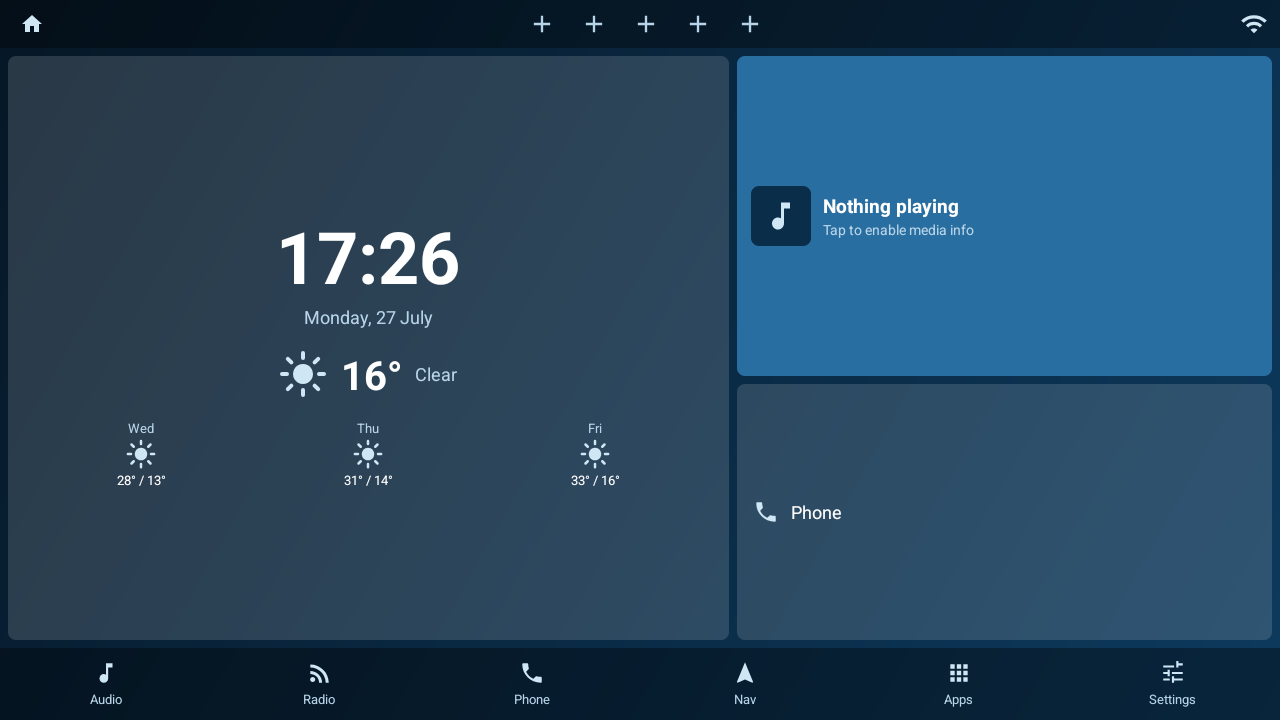
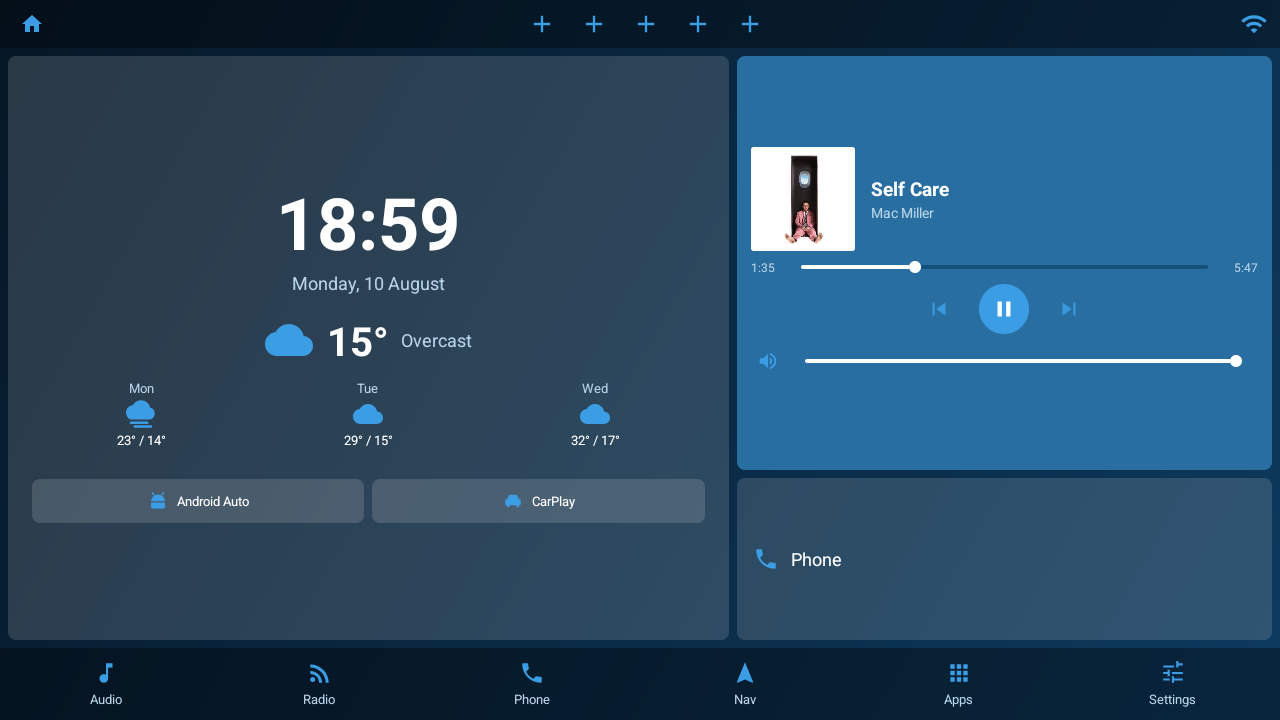
Refresh screenshots, README and site
Replaces the old screenshots with current ones and rewrites the README
around how the launcher actually works: the two configurable cards, the
widget hosting, the live layout editor and the portrait drawer. Fixes the
stale notes on fullscreen handling and the project layout, and drops the
roadmap items that are already in.

The site gets the same treatment — new shots throughout, sections for the
editor and for widgets in place of the old drawer shot.

diff --git a/docs/index.html b/docs/index.html
@@ -42,7 +42,7 @@
 
 <section>
   <div class="wrap">
-    <img class="shot" src="screenshots/dashboard.png" alt="Dashline home screen showing a large clock, current weather with a three-day forecast, a media panel and a phone shortcut">
+    <img class="shot" src="screenshots/dashboard.png" alt="Dashline home screen showing a large clock, current weather with a three-day forecast, a media panel with album art and playback controls, and a phone shortcut">
     <p class="cap">The whole launcher is one glanceable screen.</p>
   </div>
 </section>
@@ -52,7 +52,8 @@
     <h2>Built for the units, not for phones</h2>
     <p class="lede">
       Most head-unit launchers are phone launchers stretched sideways. Dashline is
-      landscape-first, readable at a glance, and light enough for a slow SoC.
+      landscape-first, readable at a glance, and light enough for a slow SoC —
+      with a layout of its own for upright screens.
     </p>
 
     <div class="grid">
@@ -67,6 +68,10 @@
       <div class="card">
         <h3>Your apps, your tabs</h3>
         <p>Audio, Radio, Phone, Nav, Apps and Settings, each mapped to an app you choose.</p>
+      </div>
+      <div class="card">
+        <h3>Cards you fill</h3>
+        <p>Each of the two panels holds the player, a phone shortcut, your app shortcuts, or real Android widgets.</p>
       </div>
       <div class="card">
         <h3>Drawer that stays tidy</h3>
@@ -87,15 +92,39 @@
 <section>
   <div class="wrap">
     <h2>Make it yours</h2>
-    <p class="lede">Pick a colour scheme, choose your default apps, and set it once.</p>
+    <p class="lede">
+      The Customize screen is the real dashboard, not a mock-up. Drag the bar
+      between the cards to resize them, swap their order, and pick what each one
+      holds.
+    </p>
+    <img class="shot" src="screenshots/customize.png" alt="The Customize home screen editor, showing the live dashboard above buttons to swap the cards, set the media card, set the second card and reset">
+    <p class="cap">What you drag is what you get.</p>
+  </div>
+</section>
+
+<section>
+  <div class="wrap">
+    <h2>Real widgets, on your dashboard</h2>
+    <p class="lede">
+      Either card can host up to three standard Android home-screen widgets —
+      calendar, battery, music, whatever you already use — or a row of app
+      shortcuts instead.
+    </p>
+    <img class="shot" src="screenshots/cards.png" alt="Dashline home screen with a calendar widget filling one card and four app shortcuts in the other">
+  </div>
+</section>
+
+<section>
+  <div class="wrap">
+    <h2>Set it up once</h2>
     <div class="shot-grid">
       <div>
-        <img class="shot" src="screenshots/gradients.png" alt="Colour theme picker showing Midnight, Ocean, Sunset, Forest, Violet, Crimson and Graphite schemes">
+        <img class="shot" src="screenshots/themes.png" alt="Colour theme picker showing Midnight, Ocean, Sunset, Forest, Violet, Crimson and Graphite schemes">
         <p class="cap">Seven schemes, applied across the whole UI.</p>
       </div>
       <div>
-        <img class="shot" src="screenshots/settings.png" alt="Settings screen with sections for general options, default apps and permissions">
-        <p class="cap">Everything configurable, nothing buried.</p>
+        <img class="shot" src="screenshots/tabs.png" alt="Bottom tab editor listing Audio, Radio, Phone, Nav, Apps and Settings with controls to reorder and hide them">
+        <p class="cap">Reorder the bottom bar, hide what your unit doesn't need.</p>
       </div>
     </div>
   </div>
@@ -103,11 +132,12 @@
 
 <section>
   <div class="wrap">
-    <h2>Every app, one search away</h2>
+    <h2>Light or dark, however you like it</h2>
     <p class="lede">
-      The drawer learns what you actually open and puts it first.
+      Dark by default, light when you want it, or automatic by time of day. The
+      clock can be digital, analog or minimal, with a stopwatch if you use one.
     </p>
-    <img class="shot" src="screenshots/drawer.png" alt="App drawer with a search field, a frequently used row and a grid of installed apps">
+    <img class="shot" src="screenshots/dashboard-light.png" alt="Dashline in a light green theme with the analog clock face, a stopwatch, weather forecast and the media panel">
   </div>
 </section>
 

diff --git a/README.md b/README.md
@@ -16,30 +16,65 @@
 </p>
 
 <p align="center">
-  Kotlin, classic Views, landscape-first, <b>no Google Play Services required</b>,<br>
+  Kotlin, classic Views, landscape-first with a portrait layout for upright<br>
+  screens, <b>no Google Play Services required</b>,<br>
   and it runs all the way back to <b>Android 4.4 (KitKat)</b> so it works on old units too.
 </p>
 
 ---
 
-## Screenshots
+## How it works
 
-### Dashboard
-
-Clock, date, current conditions and a three-day forecast on the left; media and
-phone on the right; quick-launch favourites along the top.
+The whole launcher is one screen. A status bar across the top, two panels below
+it, and a tab bar along the bottom.
 
 ![Home dashboard](docs/screenshots/dashboard.png)
 
-### App drawer
+**The top bar** holds a Home button, five quick-launch favourites, and a Wi-Fi
+indicator that only appears when the unit is connected. Tap an empty favourite
+slot to assign an app, long-press one to change or clear it.
 
-Search, a frequently-used strip, and the full app grid.
+**The left panel** is the clock and weather: a large clock and date, current
+conditions, and a three-day forecast. The clock face can be digital, analog or
+minimal, and an optional stopwatch sits under it.
 
-![App drawer](docs/screenshots/drawer.png)
+![Light theme with the analog face and stopwatch](docs/screenshots/dashboard-light.png)
 
-| Settings | Colour themes |
+**The right column is two cards, and both are yours to fill.** Either one can be:
+
+- the **media player** — album art, title and artist read from whatever app is
+  actually playing, with play/pause, skip, a scrubbable seek bar and volume;
+- the **phone shortcut**;
+- a row of **app shortcuts** you choose;
+- up to three **Android home-screen widgets**, hosted for real — the same
+  widgets you'd put on a phone's home screen.
+
+![A calendar widget in one card, app shortcuts in the other](docs/screenshots/cards.png)
+
+**The bottom tabs** are Audio, Radio, Phone, Nav, Apps and Settings, each mapped
+to an app you pick. They can be reordered, and any of them except Apps and
+Settings can be hidden — those two stay because they're the only way back into
+the launcher's own screens.
+
+### Laying it out
+
+**Settings → Customize home screen** is a live editor: it inflates the real
+dashboard, so what you're dragging is exactly what you'll get. Drag the bar
+between the cards to resize them, swap their order, and choose what each one
+holds.
+
+![The customize screen](docs/screenshots/customize.png)
+
+| Colour themes | Tab editor |
 |---|---|
-| ![Settings](docs/screenshots/settings.png) | ![Colour theme picker](docs/screenshots/gradients.png) |
+| ![Colour theme picker](docs/screenshots/themes.png) | ![Bottom tab editor](docs/screenshots/tabs.png) |
+
+### On upright screens
+
+Portrait units stack the panels and fill the space underneath with the app
+drawer. It doesn't scroll: it measures the room it has, works out how many rows
+fit, and pages the rest — swipe across the icons or tap a dot to change page.
+Reaching for a scrollbar while driving is worse than a swipe.
 
 ---
 
@@ -48,11 +83,23 @@ Search, a frequently-used strip, and the full app grid.
 **Dashboard**
 
 - Large clock and date, current weather, and a 3-day forecast
-- Live media widget: album art, title/artist, play-pause, next/previous, and a
-  scrubbable seek bar with elapsed/total times
+- Digital, analog or minimal clock face, plus an optional stopwatch
+- Live media panel: album art, title/artist, play-pause, next/previous, volume,
+  and a scrubbable seek bar with elapsed/total times
+- Controls drop out in order as a card shrinks, rather than being squashed
+- Two configurable cards: media player, phone, app shortcuts, or app widgets
 - Quick-launch dock of 5 favourite apps in the top bar
 - Wi-Fi indicator (only shown when connected)
 - Six tabs: **Audio · Radio · Phone · Nav · Apps · Settings**
+
+**App widgets**
+
+- Any installed home-screen widget can be hosted on either card, up to three
+  side by side
+- Add, swap and remove them from the Customize screen, or by long-pressing the
+  card itself
+- Widgets that need a configuration step get one, and are told their real size
+  so they pick the right layout
 
 **App drawer**
 
@@ -60,11 +107,13 @@ Search, a frequently-used strip, and the full app grid.
 - "Frequently used" strip based on your own launch history
 - Long-press any app to hide it from the drawer
 - Refreshes automatically when apps are installed or removed
+- On portrait units, a paged drawer sits on the home screen itself
 
 **Appearance**
 
 - **7 colour schemes** — Midnight, Ocean, Sunset, Forest, Violet, Crimson,
-  Graphite — each applying a gradient and matching accent across the whole UI
+  Graphite — each applying a gradient and matching accent across the whole UI,
+  icons included
 - Light and dark palettes; dark by default, with Auto (by time of day), Light,
   and Follow-system options
 - Runs fullscreen with the system bars hidden, using its own in-app Back/Home
@@ -86,11 +135,12 @@ Search, a frequently-used strip, and the full app grid.
 |---|---|
 | Min Android | 4.4 KitKat (API 19) sideloaded · 5.0 (API 21) via Play |
 | Target Android | 16 (API 36) |
-| Orientation | Landscape |
+| Orientation | Landscape and portrait |
 | Google Play Services | Not required |
 | API keys | None |
 
-Designed for common head-unit resolutions — 1024×600 and 800×480 both work.
+Designed for common head-unit resolutions — 1024×600 and 800×480 both work,
+and upright screens get their own stacked layout.
 
 ---
 
@@ -213,12 +263,19 @@ app/src/main/
 ├── AndroidManifest.xml              # HOME intent-filter, notification listener
 ├── java/com/dashline/launcher/
 │   ├── App.kt                       # applies saved language + theme at startup
-│   ├── BaseActivity.kt              # locale, fullscreen, gradient, in-app nav
+│   ├── BaseActivity.kt              # locale, fullscreen, gradient, icon tint, nav
 │   ├── HomeActivity.kt              # the dashboard
+│   ├── CustomizeActivity.kt         # live layout editor
+│   ├── WidgetHost.kt                # binds and renders app widgets
+│   ├── SwipeLinearLayout.kt         # page-turning container for the drawer
+│   ├── AnalogClockView.kt           # the analog face
 │   ├── AppDrawerActivity.kt         # app grid: search, frequent, hide
 │   ├── AppPickerActivity.kt         # "choose an app for this role"
+│   ├── AppAdapter.kt                # app grid cells
 │   ├── SetupActivity.kt             # first-run onboarding
 │   ├── SettingsActivity.kt          # settings
+│   ├── TabAction.kt                 # the six tabs and what they launch
+│   ├── TabOrderActivity.kt          # reorder / hide tabs
 │   ├── GradientPickerActivity.kt    # colour scheme picker
 │   ├── GradientThemes.kt            # the 7 colour schemes
 │   ├── ThemeManager.kt              # light / dark / auto
@@ -226,12 +283,16 @@ app/src/main/
 │   ├── MediaMonitor.kt              # reads the active MediaSession
 │   ├── WeatherRepository.kt         # Open-Meteo client
 │   ├── AppRepository.kt             # query + launch installed apps
+│   ├── DefaultLauncher.kt           # "make this the home app" helper
 │   ├── Prefs.kt                     # all persisted settings
 │   ├── Permissions.kt               # runtime permission helpers
 │   └── Usage.kt                     # launch-count tracking
 └── res/
+    ├── layout/                      # landscape dashboard and all other screens
+    ├── layout-port/                 # portrait dashboard (same ids as landscape)
     ├── values/                      # strings, light palette, styles
     ├── values-night/                # dark palette
+    ├── values-h600dp/               # roomier sizes on taller screens
     ├── values-v21/                  # API 21+ theme attributes
     └── values-{ar,de,es,fr,it,pt,ru,tr,zh}/   # translations
 ```
@@ -250,12 +311,17 @@ things:
   render as app icons before Android 5.0. Adaptive icons in `mipmap-anydpi-v26`
   are used only on API 26+.
 - **API 21+ theme attributes** live in `values-v21/` so they don't affect KitKat.
-- **Fullscreen** uses the legacy `systemUiVisibility` flags rather than
-  `WindowInsetsController`, which doesn't exist below API 30.
+- **Fullscreen** goes through `WindowInsetsControllerCompat` rather than the
+  raw `systemUiVisibility` flags: from targetSdk 35 Android enforces
+  edge-to-edge and those flags stop behaving predictably. The compat layer
+  maps to them on old devices, so KitKat still works.
 - **The language override** wraps each activity's context instead of using
   `AppCompatDelegate.setApplicationLocales`, which needs appcompat 1.6+.
-- **The media widget requires Android 5.0+** (`MediaSessionManager`). On KitKat it
+- **The media panel requires Android 5.0+** (`MediaSessionManager`). On KitKat it
   falls back to acting as a launch button.
+- **Widgets are bound through `ACTION_APPWIDGET_BIND`**, not the system's
+  widget picker: that picker binds on the caller's behalf, which needs the
+  signature-level `BIND_APPWIDGET` permission no normal app can hold.
 
 ---
 
@@ -277,8 +343,7 @@ are pinned deliberately to keep Android 4.4 support.
 
 - Reorderable favourites dock (drag and drop)
 - Hourly forecast in the weather panel
-- Signed release builds with R8 shrinking
-- Optional analog clock face
+- Quick-dial contacts on the phone card
 
 ---
 

diff --git a/docs/play-store-listing.md b/docs/play-store-listing.md
@@ -31,9 +31,21 @@ WHAT YOU GET
 • A large, legible clock and date
 • Current weather plus a three-day forecast
 • A media panel showing what is actually playing — album art, title and artist —
-  with play, pause, next and previous controls and a seek bar
+  with play, pause, next and previous controls, volume and a seek bar
 • Five quick-launch shortcuts along the top bar for the apps you use most
 • One-tap tabs for Audio, Radio, Phone, Navigation, Apps and Settings
+• A layout of its own for upright screens, with a paged app drawer on the home
+  screen itself
+
+A DASHBOARD YOU LAY OUT YOURSELF
+
+• Resize the two panels by dragging the bar between them, or swap their order
+• Fill either panel with the media player, a phone shortcut, your own app
+  shortcuts, or up to three standard Android home-screen widgets
+• The Customize screen shows the real dashboard while you edit it, so what you
+  see is what you get
+• Reorder the bottom tabs, or hide the ones your unit does not need
+• Digital, analog or minimal clock face, with an optional stopwatch
 
 APP DRAWER THAT STAYS OUT OF THE WAY
 
@@ -76,7 +88,7 @@ of it at https://github.com/metehankaygsz/dashline
 ## Category and tags
 
 - **App category:** Personalization
-- **Tags:** launcher, home screen, car, customization
+- **Tags:** launcher, home screen, car, customization, widgets
 
 ## Contact details
 

diff --git a/docs/screenshots/README.md b/docs/screenshots/README.md
@@ -2,4 +2,5 @@ Screenshots live here. Capture or refresh them with:
 
     ./tools/capture-screenshots.sh
 
-Expected files: dashboard.png, drawer.png, settings.png, gradients.png, setup.png
+Expected files: dashboard.png, dashboard-light.png, cards.png, customize.png,
+themes.png, tabs.png
